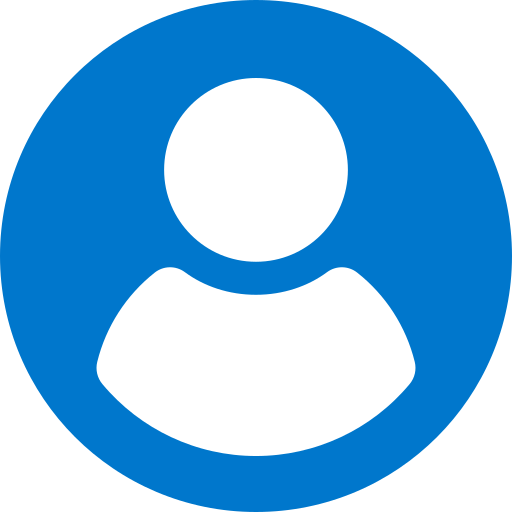
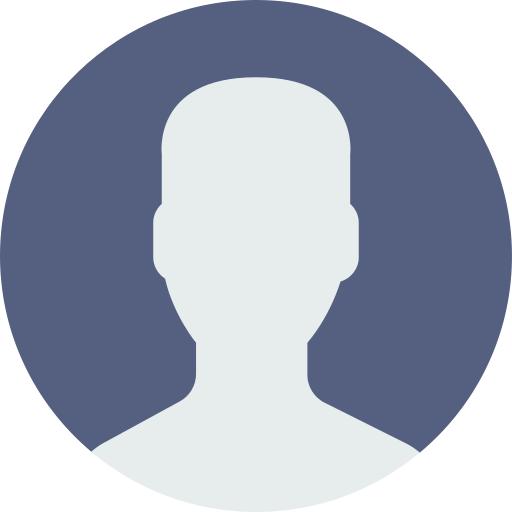
feat: translate footer text and refine panduan layout
- Translate 'Developed By' to 'Dikembangkan Oleh' in panduan footer
- Refine panduan page layout and breadcrumb styling
- Update default user avatar image

diff --git a/resources/views/panduan/pages/show.blade.php b/resources/views/panduan/pages/show.blade.php
@@ -1,68 +1,68 @@
 @extends('panduan.body')
 @section('title', $title)
 @section('content')
-    <!-- Start Page Content -->
-    <main class="page-content bg-light">
+<!-- Start Page Content -->
+<main class="page-content bg-light">
 
-        @include('panduan.top-header')
+    @include('panduan.top-header')
 
-        <div class="container-fluid">
-            <div class="layout-specing">
+    <div class="container-fluid">
+        <div class="layout-specing">
 
-                <!-- Breadcrumb -->
-                <nav aria-label="breadcrumb" class="mb-4">
-                    <ol class="breadcrumb mb-0">
-                        <li class="breadcrumb-item">
-                            <a href="{{ route('panduan.show') }}">Beranda</a>
-                        </li>
-                        @if (isset($breadcrumbs))
-                            @foreach ($breadcrumbs as $crumb)
-                                <li class="breadcrumb-item {{ $loop->last ? 'active' : '' }}">
-                                    @if ($loop->last)
-                                        {{ $crumb['title'] }}
-                                    @else
-                                        <a href="{{ $crumb['url'] }}">{{ $crumb['title'] }}</a>
-                                    @endif
-                                </li>
-                            @endforeach
+            <!-- Breadcrumb -->
+            <nav aria-label="breadcrumb" class="mb-4">
+                <ol class="breadcrumb mb-0">
+                    <li class="breadcrumb-item">
+                        <a href="{{ route('panduan.show') }}">Beranda</a>
+                    </li>
+                    @if (isset($breadcrumbs))
+                    @foreach ($breadcrumbs as $crumb)
+                    <li class="breadcrumb-item {{ $loop->last ? 'active' : '' }}">
+                        @if ($loop->last)
+                        {{ $crumb['title'] }}
                         @else
-                            <li class="breadcrumb-item active">{{ $title }}</li>
+                        <a href="{{ $crumb['url'] }}" style="color: #000;">{{ $crumb['title'] }}</a>
                         @endif
-                    </ol>
-                </nav>
+                    </li>
+                    @endforeach
+                    @else
+                    <li class="breadcrumb-item active" style="color: #000;">{{ $title }}</li>
+                    @endif
+                </ol>
+            </nav>
 
-                <!-- Main Content Card -->
-                <div class="row">
-                    <div class="col-12">
-                        <div class="card">
-                            <div class="card-body">
-                                <!-- Article Content -->
-                                <article class="panduan-content">
-                                    {!! $content !!}
-                                </article>
-                            </div>
-                        </div>
-                    </div>
-                </div>
-
-                <!-- Navigation Between Articles -->
-                <div class="row mt-4">
-                    <div class="col-12">
-                        <div class="d-flex justify-content-between align-items-center flex-wrap gap-2">
-                            <a href="{{ route('panduan.show') }}" class="btn btn-warning btn-pills btn-sm">
-                                Kembali ke Beranda
-                            </a>
-                            <a href="https://wa.me/{{ $infoApp->kontak }}" target="_blank" class="btn btn-primary btn-pills btn-sm">
-                                Butuh Bantuan?
-                            </a>
+            <!-- Main Content Card -->
+            <div class="row">
+                <div class="col-12">
+                    <div class="card">
+                        <div class="card-body">
+                            <!-- Article Content -->
+                            <article class="panduan-content">
+                                {!! $content !!}
+                            </article>
                         </div>
                     </div>
                 </div>
             </div>
-        </div><!--end container-->
 
-        @include('panduan.content-footer')
-        <!-- End -->
-    </main>
-    <!--End page-content" -->
+            <!-- Navigation Between Articles -->
+            <div class="row mt-4">
+                <div class="col-12">
+                    <div class="d-flex justify-content-between align-items-center flex-wrap gap-2">
+                        <a href="{{ route('panduan.show') }}" class="btn btn-warning btn-pills btn-sm">
+                            Kembali ke Beranda
+                        </a>
+                        <a href="https://wa.me/{{ $infoApp->kontak }}" target="_blank" class="btn btn-primary btn-pills btn-sm">
+                            Butuh Bantuan?
+                        </a>
+                    </div>
+                </div>
+            </div>
+        </div>
+    </div><!--end container-->
+
+    @include('panduan.content-footer')
+    <!-- End -->
+</main>
+<!--End page-content" -->
 @endsection

diff --git a/resources/views/panduan/content-footer.blade.php b/resources/views/panduan/content-footer.blade.php
@@ -15,7 +15,7 @@
             <div class="col-md-6">
                 <div class="text-md-end text-center mx-md-2 mt-2 mt-md-0">
                     <p class="mb-0 text-muted">
-                        Developed By
+                        Dikembangkan Oleh
                         <a href="{{ $infoApp->website }}" target="_blank" class="text-primary text-decoration-none fw-medium">
                             {{ $infoApp->pengadilan_negeri }}
                         </a>
